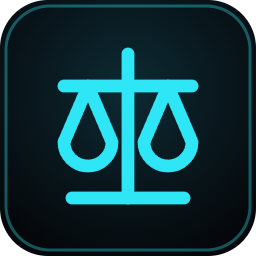
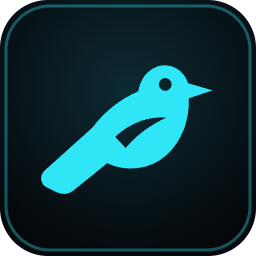
A mockingbird for Atticus's mark
One filled shape on a 24-unit grid (docs/brand/mockingbird.svg): perched, long
tail, white wing bar. It replaces the scales and the hexagon in the favicon,
the VS Code activity bar and Marketplace icon, and the IntelliJ icons.

Changed region(s): [[0.1562, 0.1875, 0.8438, 0.8125]]

diff --git a/CHANGELOG.md b/CHANGELOG.md
@@ -4,6 +4,10 @@ All notable changes to Atticus. Versions follow [Semantic Versioning](https://se
 
 ## Unreleased
 
+### A mockingbird
+
+- Atticus's mark is a mockingbird (`docs/brand/mockingbird.svg`): the app's header and favicon, the VS Code activity bar and Marketplace icon, and the IntelliJ tool window and plugin icon.
+
 ### Every screen says what is happening
 
 - Verify, Correct, Reject, Keep, Done, Not needed and Reopen keep the keyboard on the item or need you acted on, and say "Working on it…" while they save.
